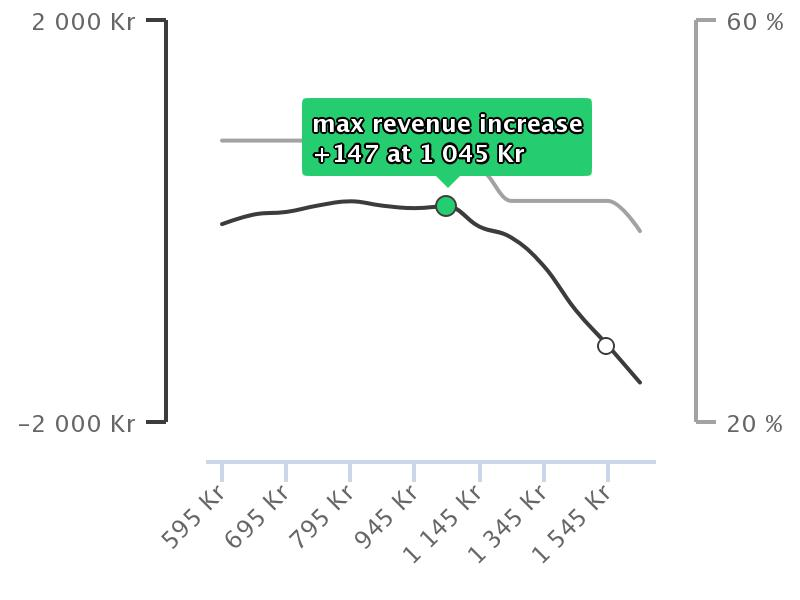
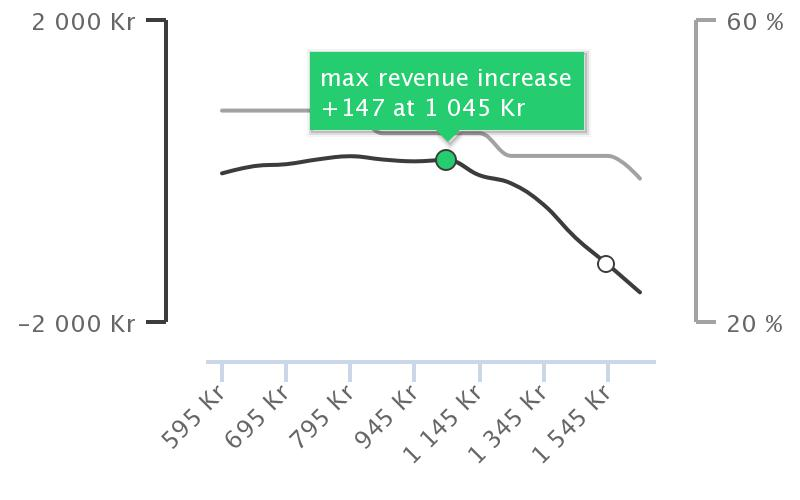
changes to chart

diff --git a/graph.html b/graph.html
@@ -200,14 +200,17 @@
                             shape: 'callout',
                             enabled: true,
                             format: 'max revenue increase<br><span>+{y}</span> at {x:,.0f} Kr',
-                            borderRadius: 5,
+                            borderRadius: 0,
                             backgroundColor: '#25CC70',// 'rgba(252, 255, 197, 0.7)',
                             borderWidth: 0,
-                            borderColor: '#FFFFFF', //'rgba(252, 255, 197, 0.7',
+                            borderColor: '#25CC70', //'rgba(252, 255, 197, 0.7',
+                            shadow: true,
                             y: -15,
                             style:{
                                 color:'#FFFFFF',
-                                fontSize:'12px'
+                                fontSize:'12px',
+                                fontWeight: 'normal',
+                                textOutline:null
 
                             },
 
@@ -231,7 +234,7 @@
 
             exporting: {
                 sourceWidth: 400,
-                sourceHeight: 300,
+                sourceHeight: 250,
                 // scale: 2 (default)
                 chartOptions: {
                     subtitle: null
